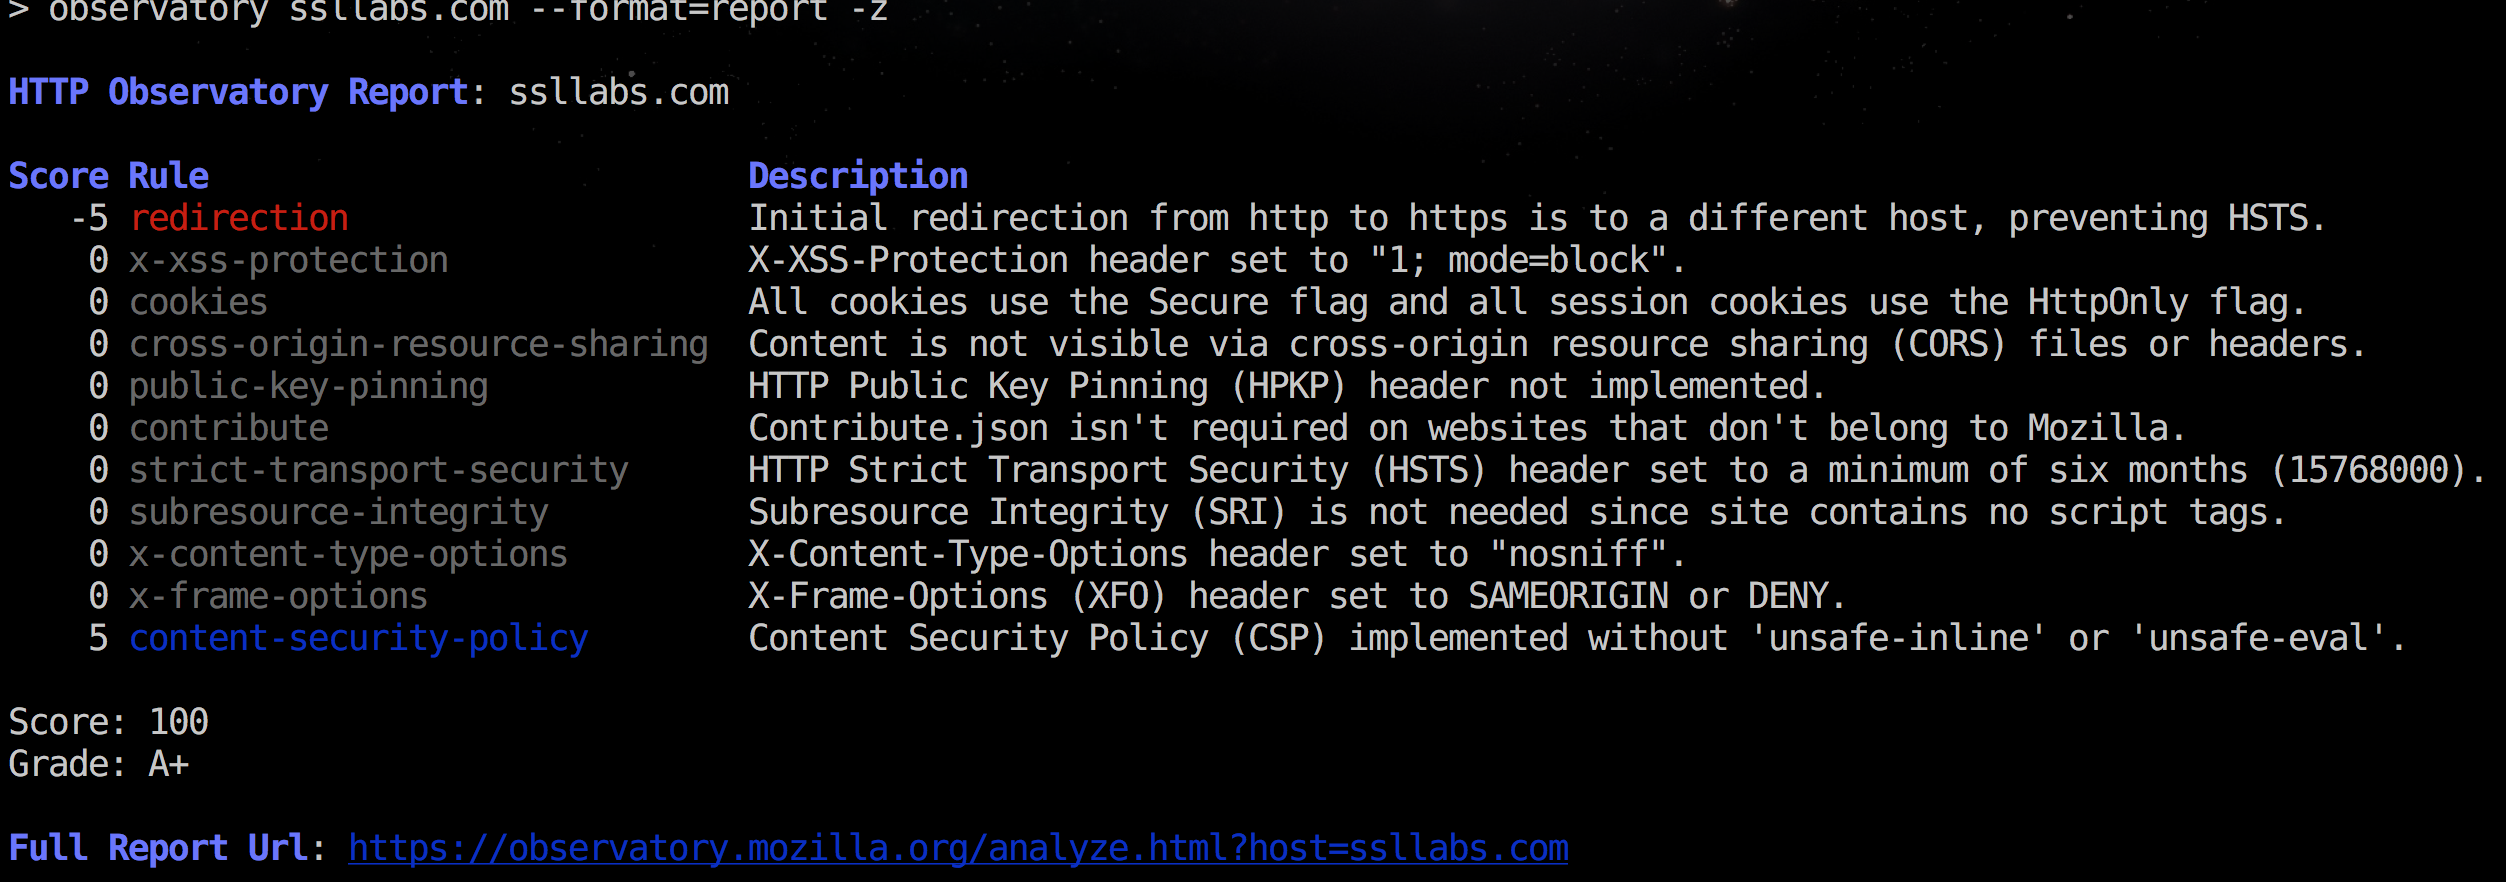
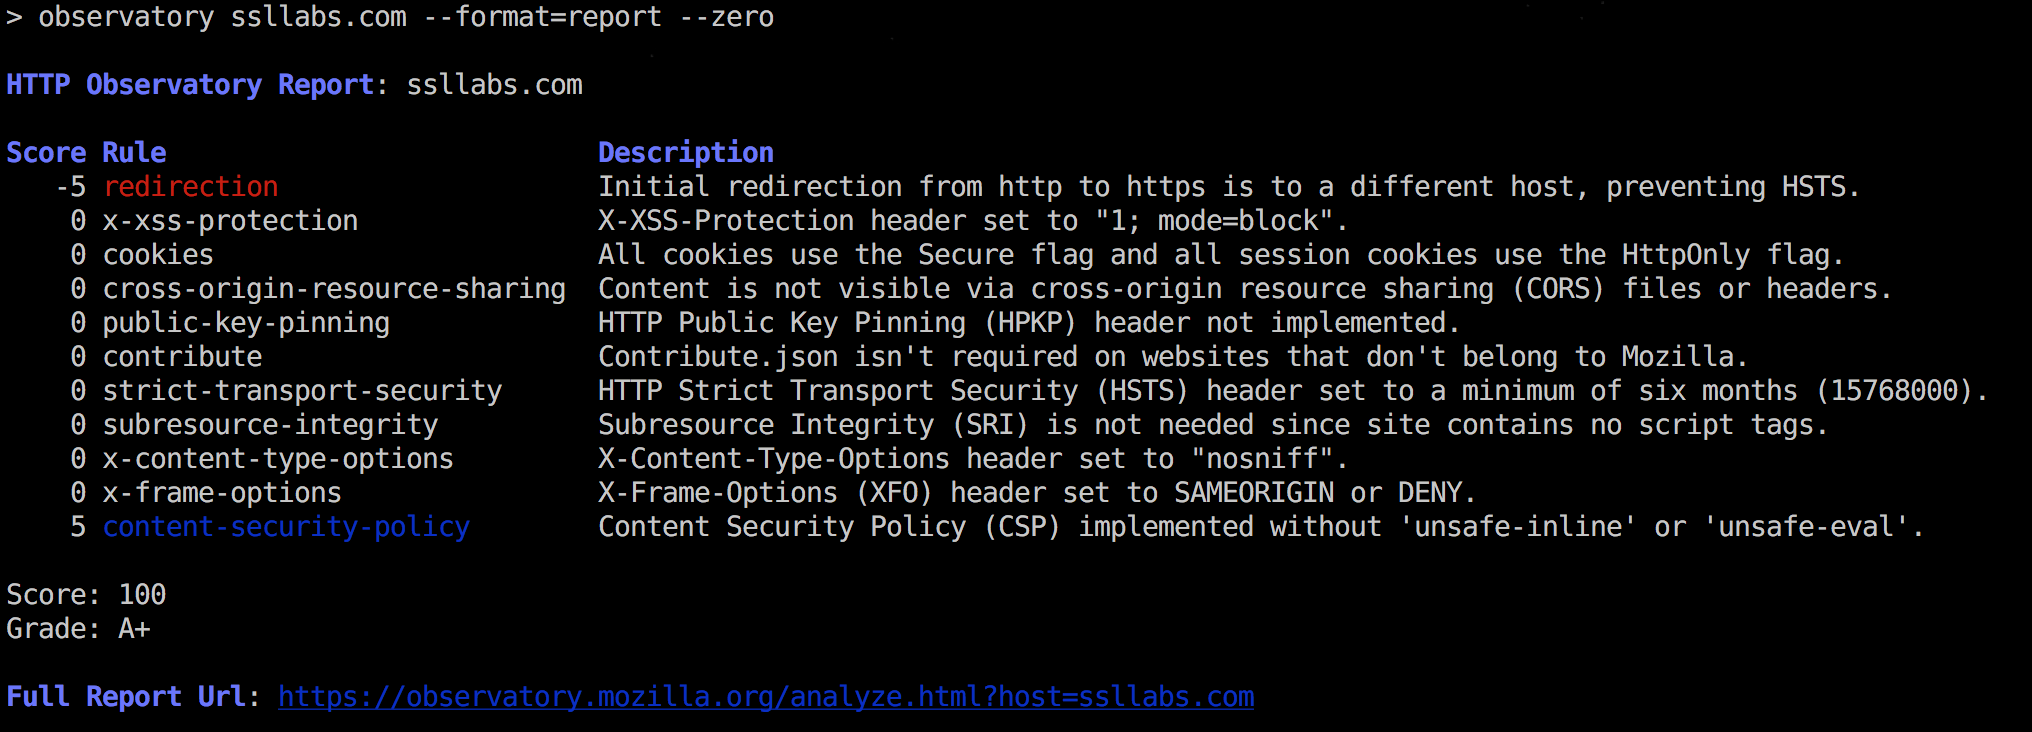
0.6.5, fix #18 report formatting

diff --git a/index.js b/index.js
@@ -64,7 +64,8 @@ var f = {
   warn: chalk.red,
   bold: chalk.bold,
   code: chalk.grey,
-  header: chalk.bold.blue
+  header: chalk.bold.blue,
+  plain: chalk.stripColor
 };
 
 function collect(val, O) {
@@ -238,7 +239,7 @@ function formatAnswersCsv(scores, url, scan, options) {
 
   scoresList.map(function(score) {
     var points = score.score_modifier;
-    var fmt = f.code;
+    var fmt = f.plain;
     if (points > 0) { fmt = f.info; }
     if (points < 0) { fmt = f.error; }
 
